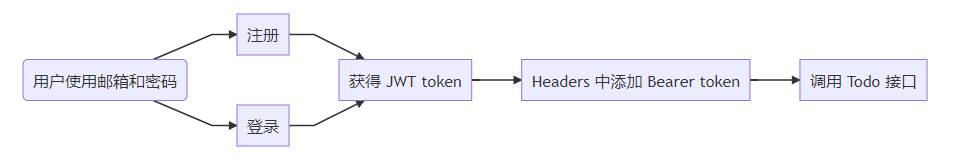
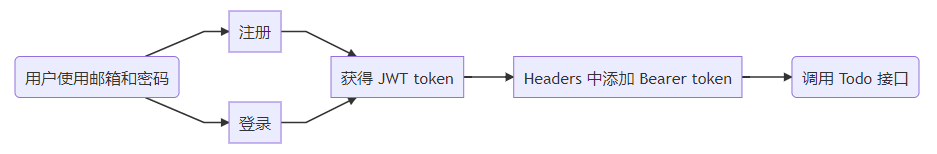
...

Changed region(s): [[0.0, 0.0519, 0.9904, 0.8831], [0.2166, 0.9091, 0.3095, 0.9351]]

diff --git a/_drafts/2021-04-08-asp-net-core-5-rest-api-authentication-with-jwt-step-by-step.md b/_drafts/2021-04-08-asp-net-core-5-rest-api-authentication-with-jwt-step-by-step.md
@@ -431,10 +431,8 @@ public class TodoController : ControllerBase
 ```mermaid
 graph LR
 A(用户使用邮箱和密码) --> B[注册] & C[登录] --> D[获得 JWT token]
-
 D --> E[Headers 中添加 Bearer token]
-
-E --> F[调用 Todo 接口]
+E --> F(调用 Todo 接口)
 ```
 
 > 译者注：  
